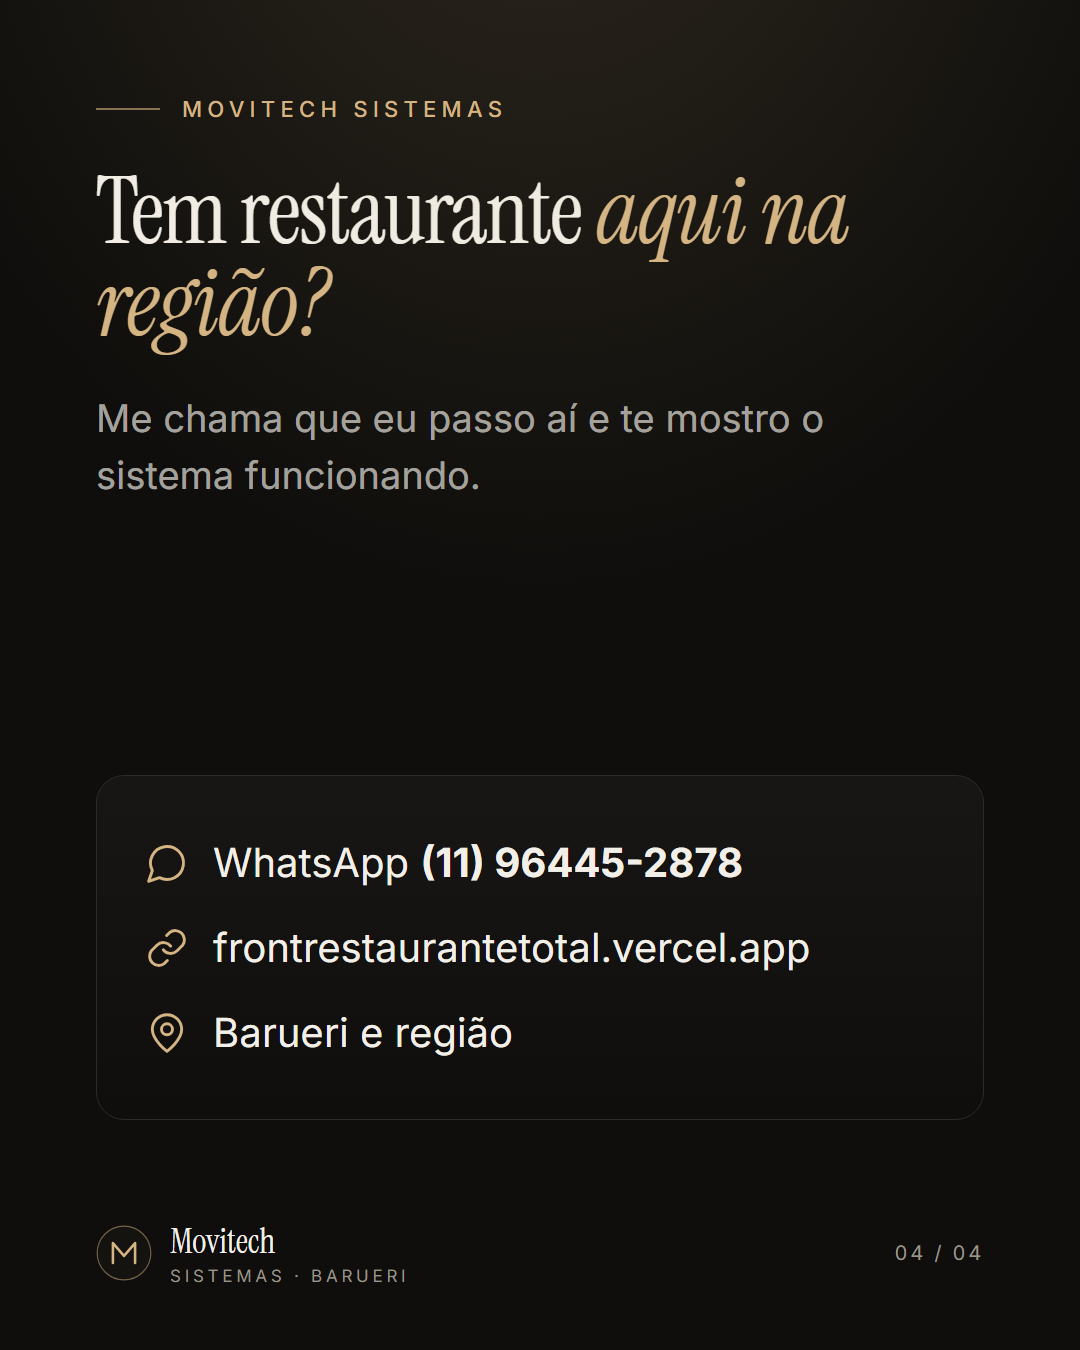
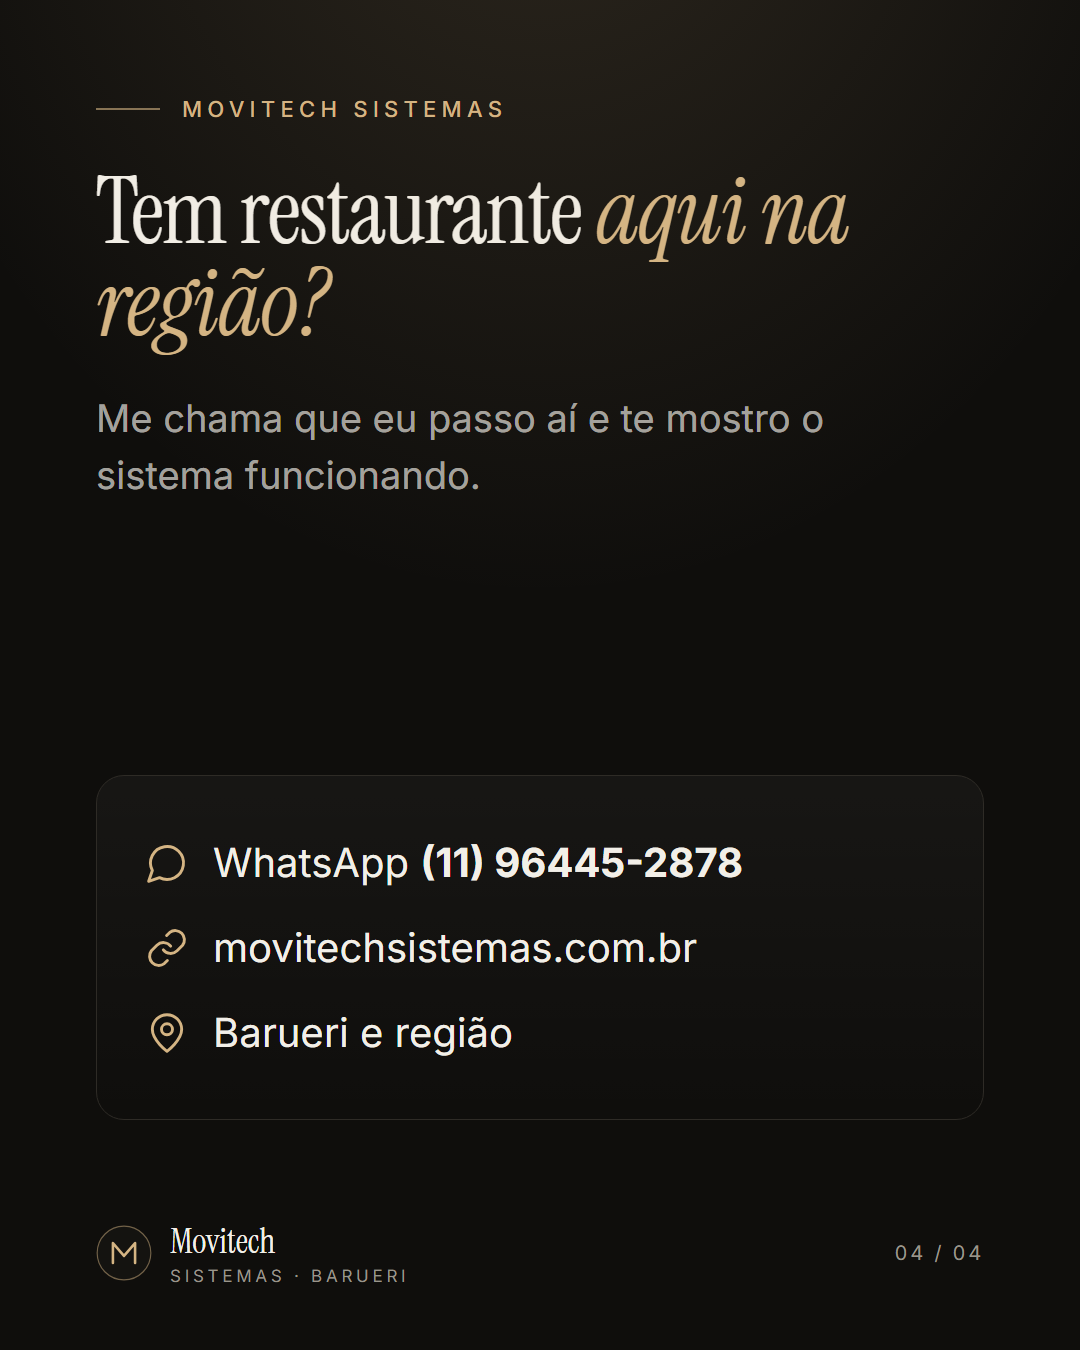
Domínio próprio: movitechsistemas.com.br
QR codes e links novos (VITE_PUBLIC_URL, PUBLIC_URL) passam a usar o domínio;
CORS aceita o domínio, o www e o endereço antigo da Vercel, que continua no ar
para os QR codes já impressos. Posts do Instagram (PNG exportados de novo),
histórias de marca e texto na tela dos vídeos mostram o endereço novo.

Changed region(s): [[0.1833, 0.6844, 0.7639, 0.7156]]

diff --git a/videos/html/_comum/motor.js b/videos/html/_comum/motor.js
@@ -446,7 +446,7 @@
     const ps = frase(tit, cfg.titulo || 'Peça seu | *orçamento*')
     const zap = el(`<div class="flex" style="left:110px;top:1010px;width:860px;height:160px;border-radius:80px;background:#25d366;display:flex;align-items:center;justify-content:center;gap:26px;color:#fff;font:800 64px/1 var(--sans);box-shadow:0 30px 70px rgba(37,211,102,.25)">
       <span style="display:inline-flex">${ZAP()}</span><span>(11) 96445-2878</span></div>`, box)
-    const site = el('<div style="left:0;top:1222px;width:1080px;text-align:center;font:500 38px/1 var(--sans);color:#9a958b">frontrestaurantetotal.vercel.app</div>', box)
+    const site = el('<div style="left:0;top:1222px;width:1080px;text-align:center;font:500 38px/1 var(--sans);color:#9a958b">movitechsistemas.com.br</div>', box)
     som('ding', inicio(nome) + 0.9, 0.22)
     return (t) => {
       const s5 = inicio(nome)

diff --git a/frontrestaurantetotal/src/pages/admin/Settings.jsx b/frontrestaurantetotal/src/pages/admin/Settings.jsx
@@ -93,7 +93,7 @@ export default function Settings({ toast }) {
         </div>
         <div>
           <label className="label">Endereço público do cardápio (usado nos QR codes e nos links do WhatsApp)</label>
-          <input className="input" maxLength={200} placeholder="Ex.: https://frontrestaurantetotal.vercel.app" value={form.publicUrl} onChange={set('publicUrl')} />
+          <input className="input" maxLength={200} placeholder="Ex.: https://movitechsistemas.com.br" value={form.publicUrl} onChange={set('publicUrl')} />
           <p className="mt-1.5 text-[11px] text-muted">Só o domínio, sem /r/…. Vazio = usa o endereço publicado na Vercel.</p>
         </div>
       </Section>

diff --git a/marketing/instagram/posts.html b/marketing/instagram/posts.html
@@ -117,7 +117,7 @@ const ICON = {
 }
 const WATERMARK = '<svg class="watermark" viewBox="0 0 48 48"><circle cx="24" cy="24" r="23" fill="none" stroke="#d4b483" stroke-width=".4"/><path d="M14.5 32.5v-17l9.5 11 9.5-11v17" fill="none" stroke="#d4b483" stroke-width=".9" stroke-linecap="round" stroke-linejoin="round"/></svg>'
 const WHATS = '(11) 96445-2878'
-const SITE = 'frontrestaurantetotal.vercel.app'
+const SITE = 'movitechsistemas.com.br'
 
 const ILUSTRATIVA = '<span class="tag">Situação ilustrativa</span><div class="push"></div>'
 const phase = (label, after = false) => `<div class="phase${after ? ' after' : ''}"><b>${label}</b></div>`

diff --git a/videos/src/mg/MG.jsx b/videos/src/mg/MG.jsx
@@ -14,7 +14,7 @@ export const { fontFamily: font } = loadBricolage('normal', { weights: ['500', '
 
 export const P = { ink: '#15132b', cream: '#fff6e5', gold: '#ffc145', goldDark: '#e9a21f', coral: '#ff5a5f', teal: '#2ec4b6', violet: '#6c5ce7', mint: '#7ff0c8', white: '#ffffff', zap: '#25d366' }
 export const WHATS = '(11) 96445-2878'
-export const SITE = 'frontrestaurantetotal.vercel.app'
+export const SITE = 'movitechsistemas.com.br'
 export const FPS = 30
 export const EASE = Easing.bezier(0.65, 0, 0.35, 1)
 export const clamp = { extrapolateLeft: 'clamp', extrapolateRight: 'clamp' }

diff --git a/videos/src/movi/MoviVideos.jsx b/videos/src/movi/MoviVideos.jsx
@@ -22,7 +22,7 @@ const C = {
   gold: '#f0c46b', amber: '#e2a74a', coral: '#ff6f61', mint: '#7ff0c8', violet: '#8b6cff', zap: '#25d366',
 }
 const WHATS = '(11) 96445-2878'
-const SITE = 'frontrestaurantetotal.vercel.app'
+const SITE = 'movitechsistemas.com.br'
 const FPS = 30
 
 export const VOZES = { apresentacao: vozApresentacao, negocios: vozNegocios, restaurantes: vozRestaurantes }

diff --git a/marketing/instagram/legendas.md b/marketing/instagram/legendas.md
@@ -5,8 +5,7 @@ As imagens prontas estão em `png/`, uma pasta por post e lâminas na ordem (`01
 
 Para mudar um texto: edite `posts.html` (abra no navegador para ver todos os posts) e rode `bash exportar.sh` nesta pasta.
 
-> O site nos posts é **frontrestaurantetotal.vercel.app** (o domínio movitechsistemas.com.br ainda não foi contratado).
-> Quando contratar, troque `SITE` em `posts.html` e rode `bash exportar.sh`.
+> O site nos posts é **movitechsistemas.com.br** (domínio próprio, no ar desde 14/10/2026).
 > As histórias da Márcia, do Rafael, do Seu Antônio e da Juliana são **situações ilustrativas**, e as lâminas já dizem isso. Não apresente como cliente real.
 
 ## Ordem sugerida (2 a 3 posts por semana)

diff --git a/marketing/05-historias-de-marca.md b/marketing/05-historias-de-marca.md
@@ -185,4 +185,4 @@ Fala "pedido", "comanda", "mesa", "garçom", "cozinha". Frases curtas.
 - **Números de comissão:** falar em "em muitos planos" ou usar a calculadora; o percentual varia por contrato.
 - **Personagens da seção 4 não são clientes.** Não dar nome de restaurante real, não usar como prova.
 - **Fotos de restaurante, cliente ou equipe:** só com autorização.
-- **WhatsApp e site:** conferir se estão certos antes de publicar ([(11) 96445-2878] · [frontrestaurantetotal.vercel.app]).
+- **WhatsApp e site:** conferir se estão certos antes de publicar ([(11) 96445-2878] · [movitechsistemas.com.br]).

diff --git a/videos/marca-movitech.md b/videos/marca-movitech.md
@@ -4,7 +4,7 @@ Fonte: site (`frontrestaurantetotal/src/index.css`, páginas Landing e Restauran
 
 ## Identidade
 - Nome: **Movitech** (Movitech Sistemas, de Barueri/SP)
-- Site: frontrestaurantetotal.vercel.app (domínio movitechsistemas.com.br ainda não contratado)
+- Site: movitechsistemas.com.br (o endereço antigo frontrestaurantetotal.vercel.app continua funcionando)
 - WhatsApp de vendas: (11) 96445-2878
 - Logo: "M" em traço champanhe dentro de um círculo escuro (`frontrestaurantetotal/public/favicon.svg`)
 - Apresentadora: Movi (avatar ilustrado, `src/movi/`), voz pt-BR Thalita
